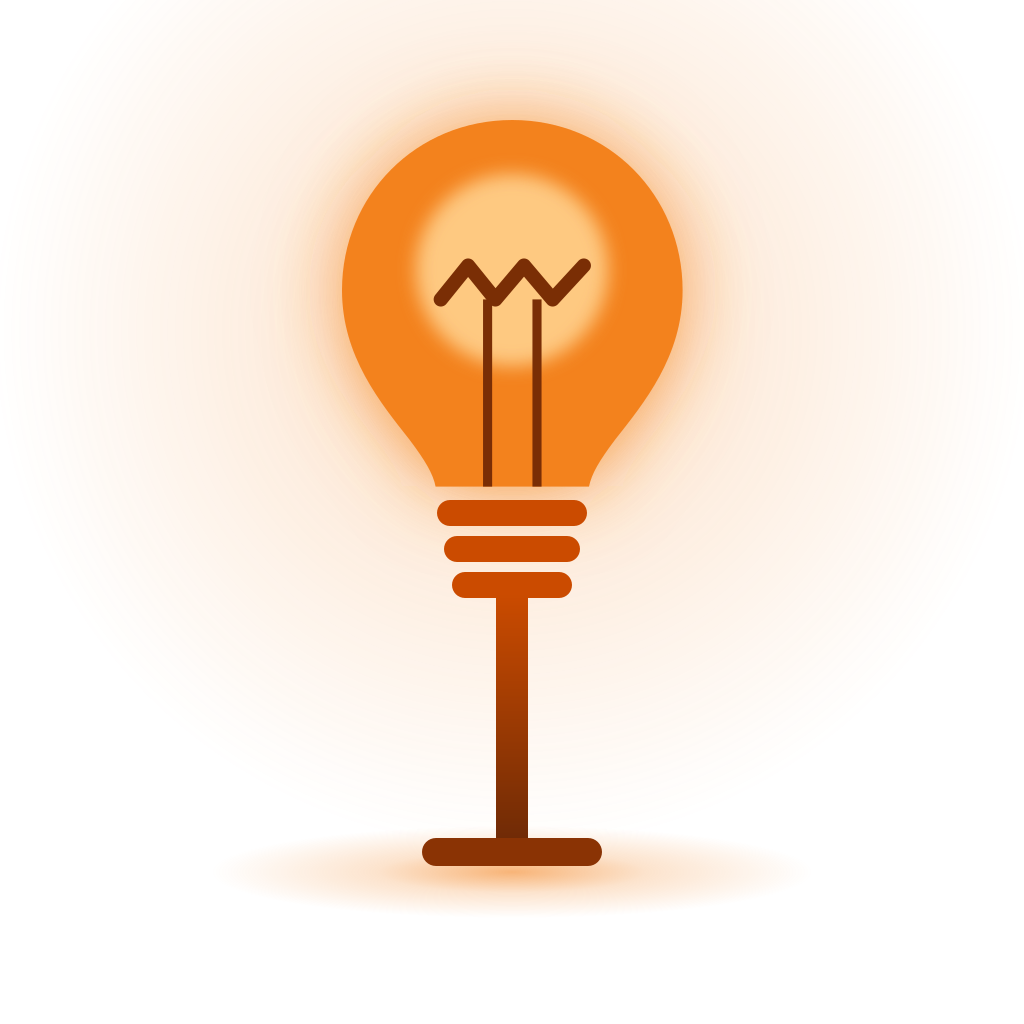
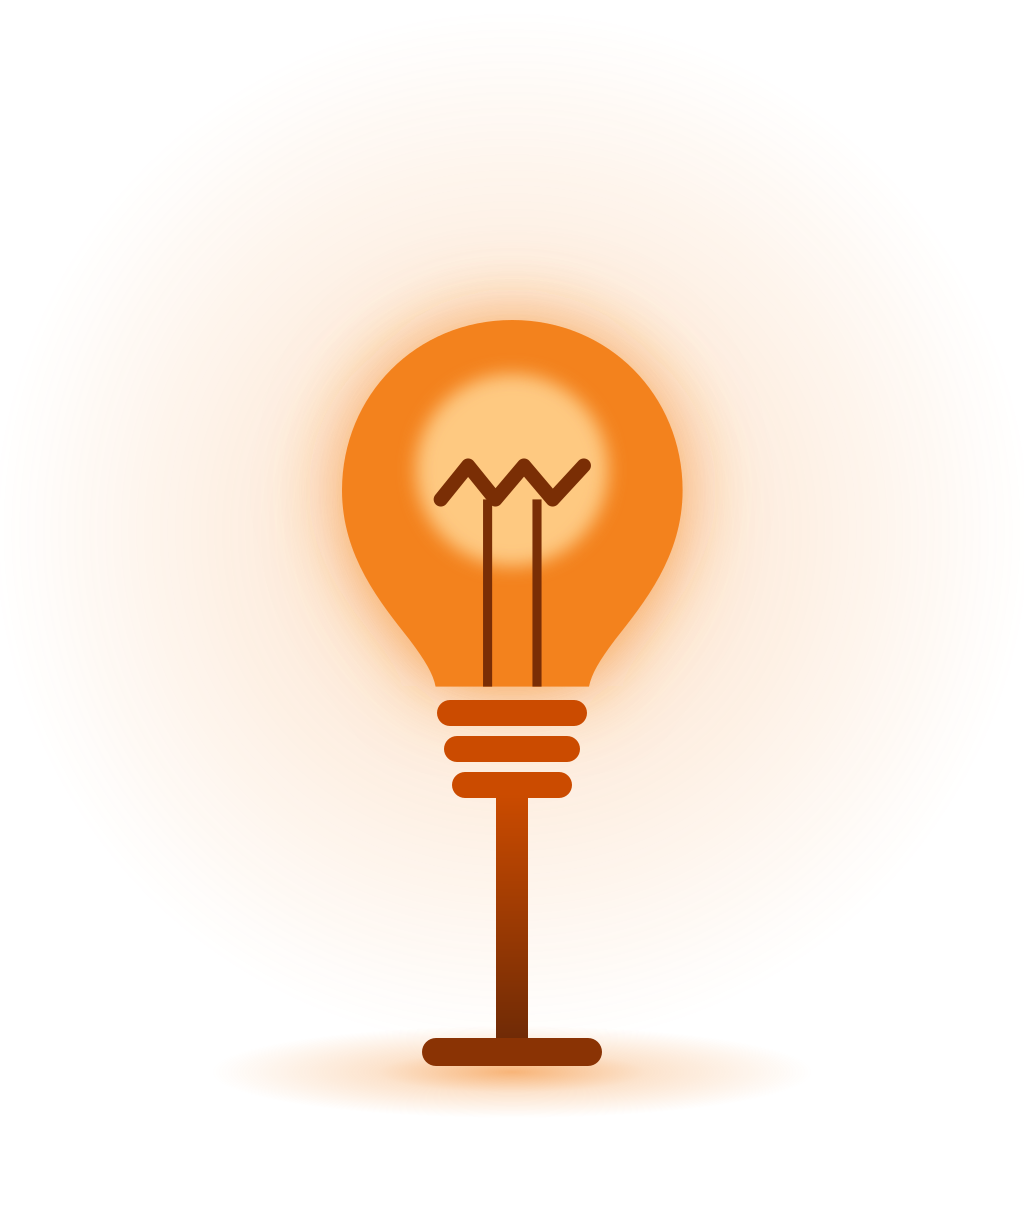
Give the lamp's halo room above so its top edge fades instead of cutting off
Same icon SVG, re-exported with 200 units of headroom; the canvas reaches up
into it without taking layout space.

Changed region(s): [[0.2812, 0.0312, 0.7188, 0.6875], [0.2812, 0.8125, 0.7188, 0.9062]]

diff --git a/src/components/GhostLight.tsx b/src/components/GhostLight.tsx
@@ -47,6 +47,14 @@ import { colors } from '../theme/tokens';
 
 const LAMP = require('../../assets/ghostlight-lamp.png');
 const IMAGE_PX = 1024;
+/**
+ * The icon's halo is a circle reaching 190 units above the icon's top edge, so
+ * a plain 1024 export cut it flat: invisible on the icon's dark square, a hard
+ * orange line on the stage. The PNG is the same SVG exported with this much
+ * room above (viewBox 0 -200 1024 1224), and the canvas reaches up into it
+ * without taking any layout space, so the glow fades out on its own.
+ */
+const HEADROOM_PX = 200;
 const GLASS_PX = 262 * 1.3;
 const GLASS_CY_PX = 120 + 141 * 1.3;
 const CROP_FULL_PX = 930;
@@ -87,6 +95,8 @@ function lampBox(W: number, full: boolean) {
   const k = imgW / IMAGE_PX;
   return {
     imgW,
+    imgH: (IMAGE_PX + HEADROOM_PX) * k,
+    headroom: HEADROOM_PX * k,
     glassCy: GLASS_CY_PX * k,
     canvasW: imgW,
     canvasH: (full ? CROP_FULL_PX : CROP_BARE_PX) * k,
@@ -140,6 +150,8 @@ export function GhostLight({ size = 18, dress, stem, boost, glow = colors.stageG
 
   const g = lampBox(size, full);
   const cx = g.canvasW / 2;
+  // Inside the canvas everything sits `headroom` lower than in the layout box.
+  const glassY = g.glassCy + g.headroom;
   const flareR = size * 1.2;
 
   // A negative boost is the lamp going out (Search blows it when you ask for
@@ -160,12 +172,12 @@ export function GhostLight({ size = 18, dress, stem, boost, glow = colors.stageG
   const recolour = Math.abs(hue) > 8 ? hueRotate(hue) : null;
 
   return (
-    <View style={{ alignItems: 'center' }} pointerEvents="none">
-      <Canvas style={{ width: g.canvasW, height: g.canvasH }}>
+    <View style={{ alignItems: 'center', height: g.canvasH }} pointerEvents="none">
+      <Canvas style={{ width: g.canvasW, height: g.canvasH + g.headroom, marginTop: -g.headroom }}>
         {/* the flare: only on a positive boost, so the resting lamp is the icon */}
-        <Circle cx={cx} cy={g.glassCy} r={flareR} opacity={flare}>
+        <Circle cx={cx} cy={glassY} r={flareR} opacity={flare}>
           <RadialGradient
-            c={vec(cx, g.glassCy)}
+            c={vec(cx, glassY)}
             r={flareR}
             colors={[`rgba(${rgb}, 0.9)`, `rgba(${rgb}, 0.3)`, `rgba(${rgb}, 0)`]}
             positions={[0, 0.4, 1]}
@@ -177,7 +189,7 @@ export function GhostLight({ size = 18, dress, stem, boost, glow = colors.stageG
             the app the moment Film & TV lit its violet lamp. */}
         {image ? (
           <Group opacity={lit}>
-            <Image image={image} x={0} y={0} width={g.imgW} height={g.imgW} fit="contain">
+            <Image image={image} x={0} y={0} width={g.imgW} height={g.imgH} fit="contain">
               {recolour ? <ColorMatrix matrix={recolour} /> : null}
             </Image>
           </Group>
